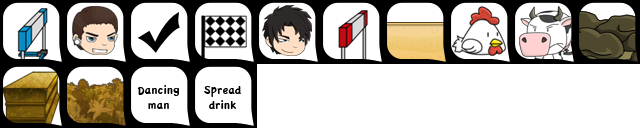
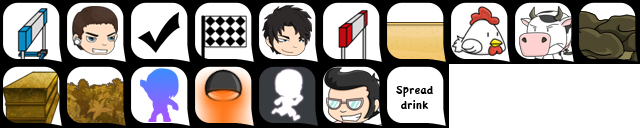
Added spilled drink and dancing man to level 4.

Changed region(s): [[0.2188, 0.5, 0.7188, 1.0]]

diff --git a/Clay/PlayerActionDodge.m b/Clay/PlayerActionDodge.m
@@ -13,8 +13,8 @@
 #import "RunningSpeed.h"
 
 #define kPlayerActionDodgeMoveX 20.0f
-#define kPlayerActionDodgeFullDuration 1.6f;
-#define kPlayerActionDodgeActiveWhileDurationLessThan 1.5f
+#define kPlayerActionDodgeFullDuration 1.0f;
+#define kPlayerActionDodgeActiveWhileDurationLessThan 0.9f
 
 @implementation PlayerActionDodge
 
@@ -22,7 +22,8 @@
 {
     if (!_inAction && _canTrigger) {
         _duration = kPlayerActionDodgeFullDuration;
-        _cooldown = 2.0f;
+        _cooldown = 0.7f;
+        _parent.isInvincible = true;
         [_parent endTurbo];
         [[AnimationController sharedController] replaceSprite:[_parent getSprite] withAnimationNamed:@"dodgingAnim"];
     }
@@ -32,10 +33,19 @@
 -(void)update:(float)dt
 {
     if (_inAction) {
-        [_parent getSpeed].velocity = 11.0f;
+        Animation *anim = [[_parent getSprite] getAnimation];
+        int frame = 1;
+        if ([anim.name isEqualToString:@"dodgingAnim"]) {
+            frame = [anim getCurrentFrameNumber];
+        }
+        
+        if (frame == 1 || frame == 3) {
+            [_parent getSpeed].velocity = 11.0f;
+        } else {
+            [_parent getSpeed].velocity = 4.0f;
+        }
         if (_duration < kPlayerActionDodgeActiveWhileDurationLessThan) {
             _isActive = true;
-            _parent.isInvincible = true;
         } else {
             _isActive = false;
         }
@@ -46,11 +56,13 @@
 -(void)cancelAction
 {
     [[AnimationController sharedController] replaceSprite:[_parent getSprite] withAnimationNamed:@"runningAnim"];
+    _parent.isInvincible = false;
     [super cancelAction];
 }
 
 -(void)endAction
 {
+    _parent.isInvincible = false;
     [super endAction];
 }
 

diff --git a/Clay/AppDelegate.m b/Clay/AppDelegate.m
@@ -100,8 +100,8 @@
 	[director setDeviceOrientation:kCCDeviceOrientationLandscapeLeft];
 #endif
 	
-	[director setAnimationInterval:1.0/30];
-	[director setDisplayFPS:NO];
+	[director setAnimationInterval:1.0/60];
+	[director setDisplayFPS:YES];
 	
 	
 	// make the OpenGLView a child of the view controller
